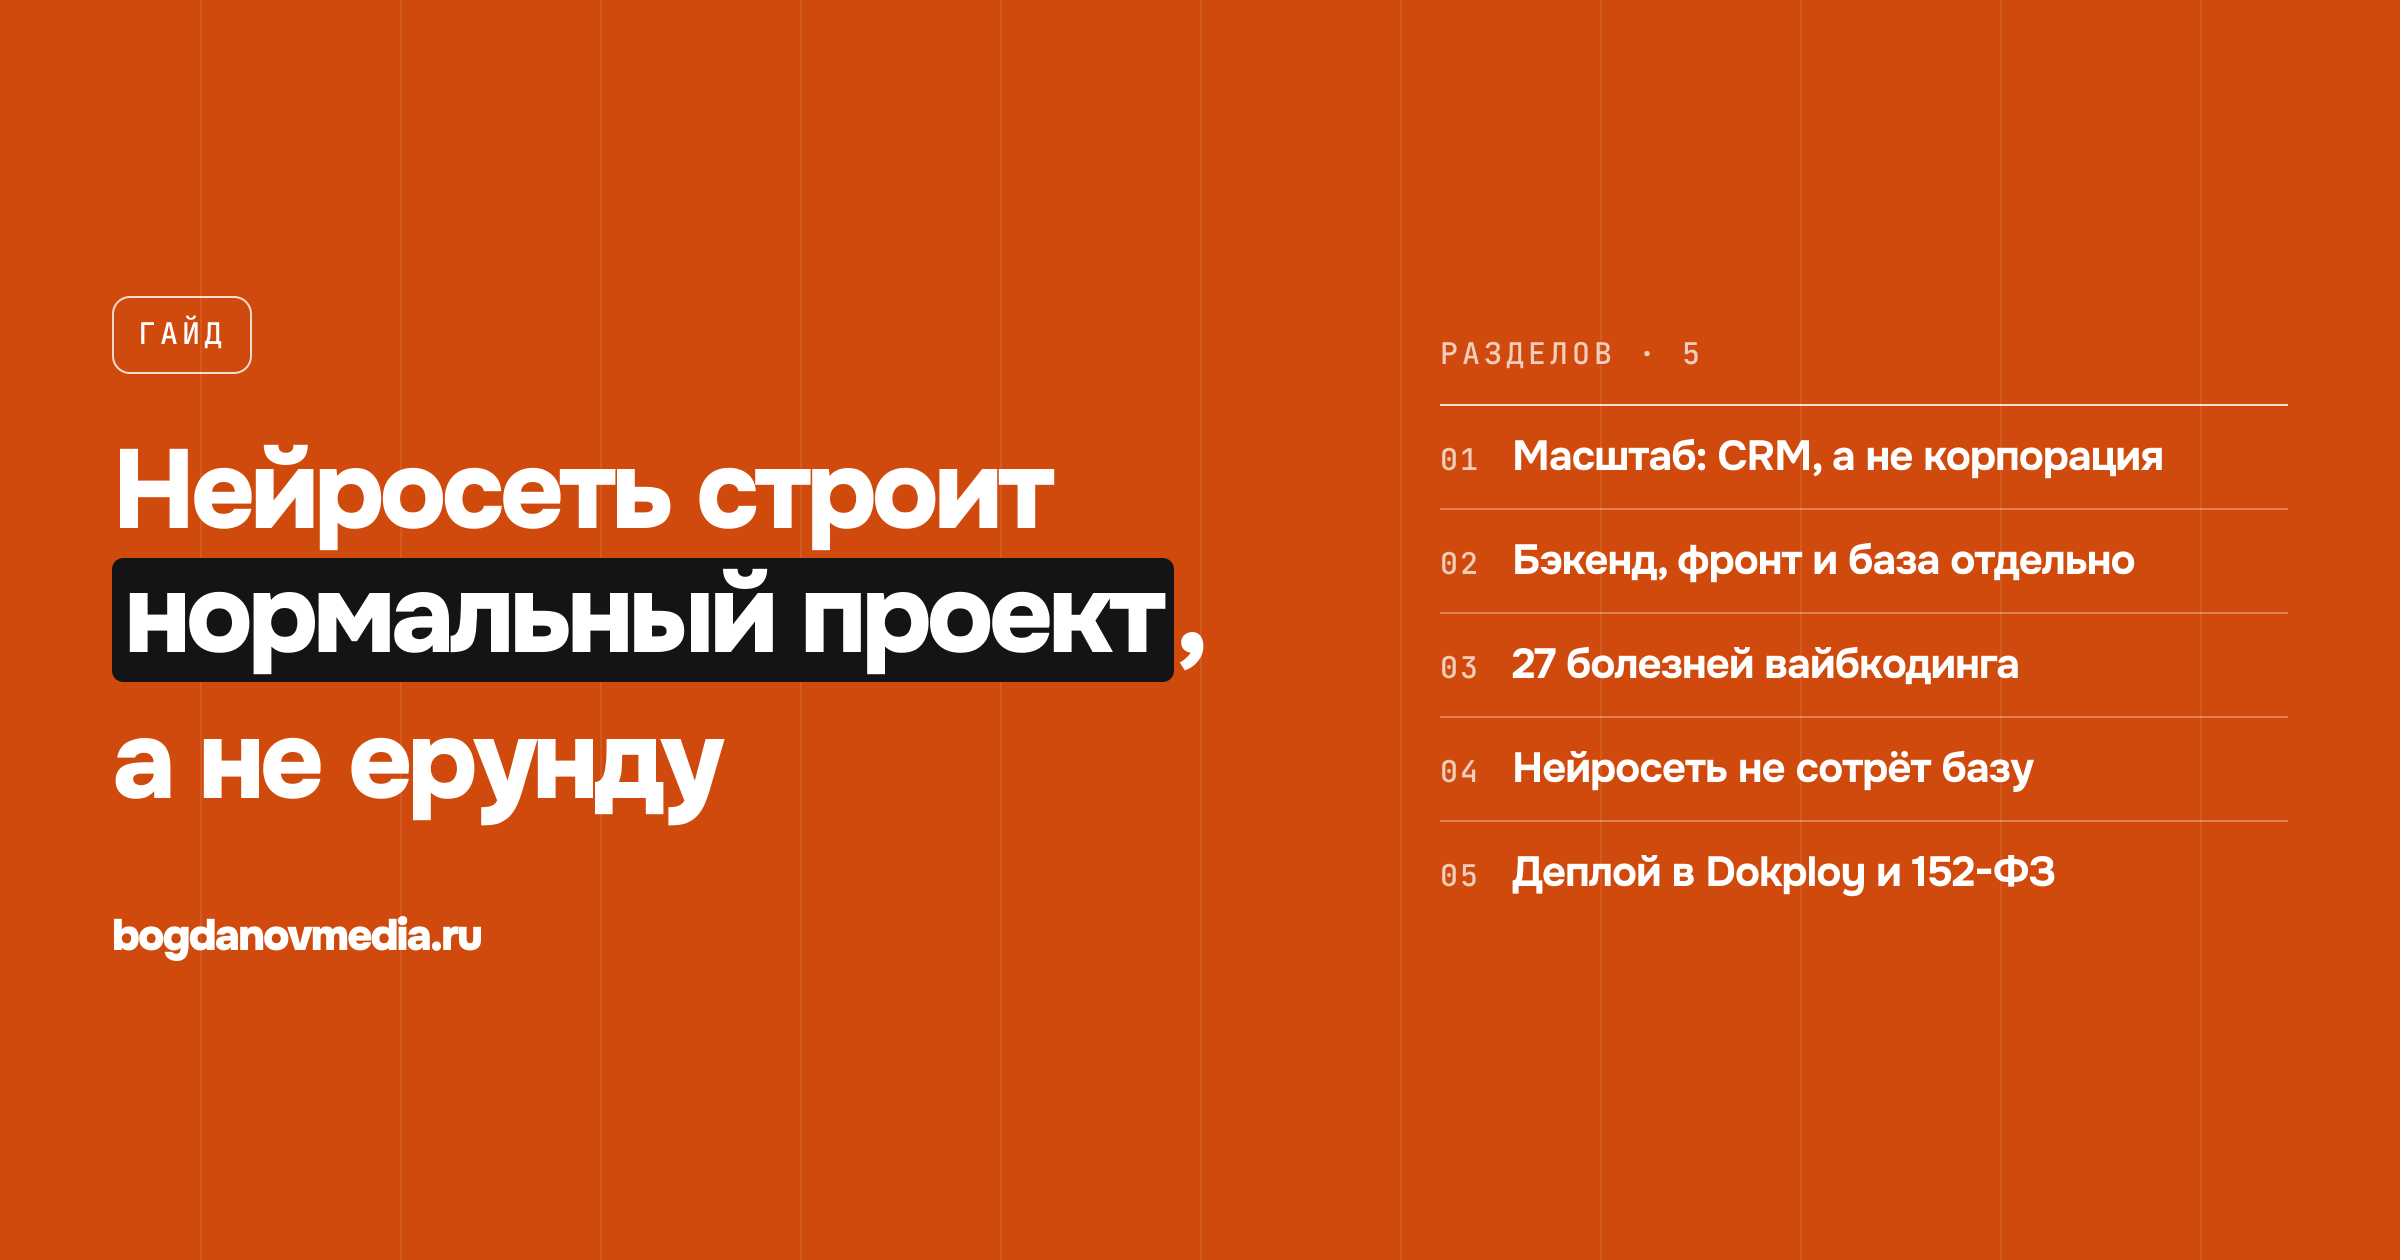
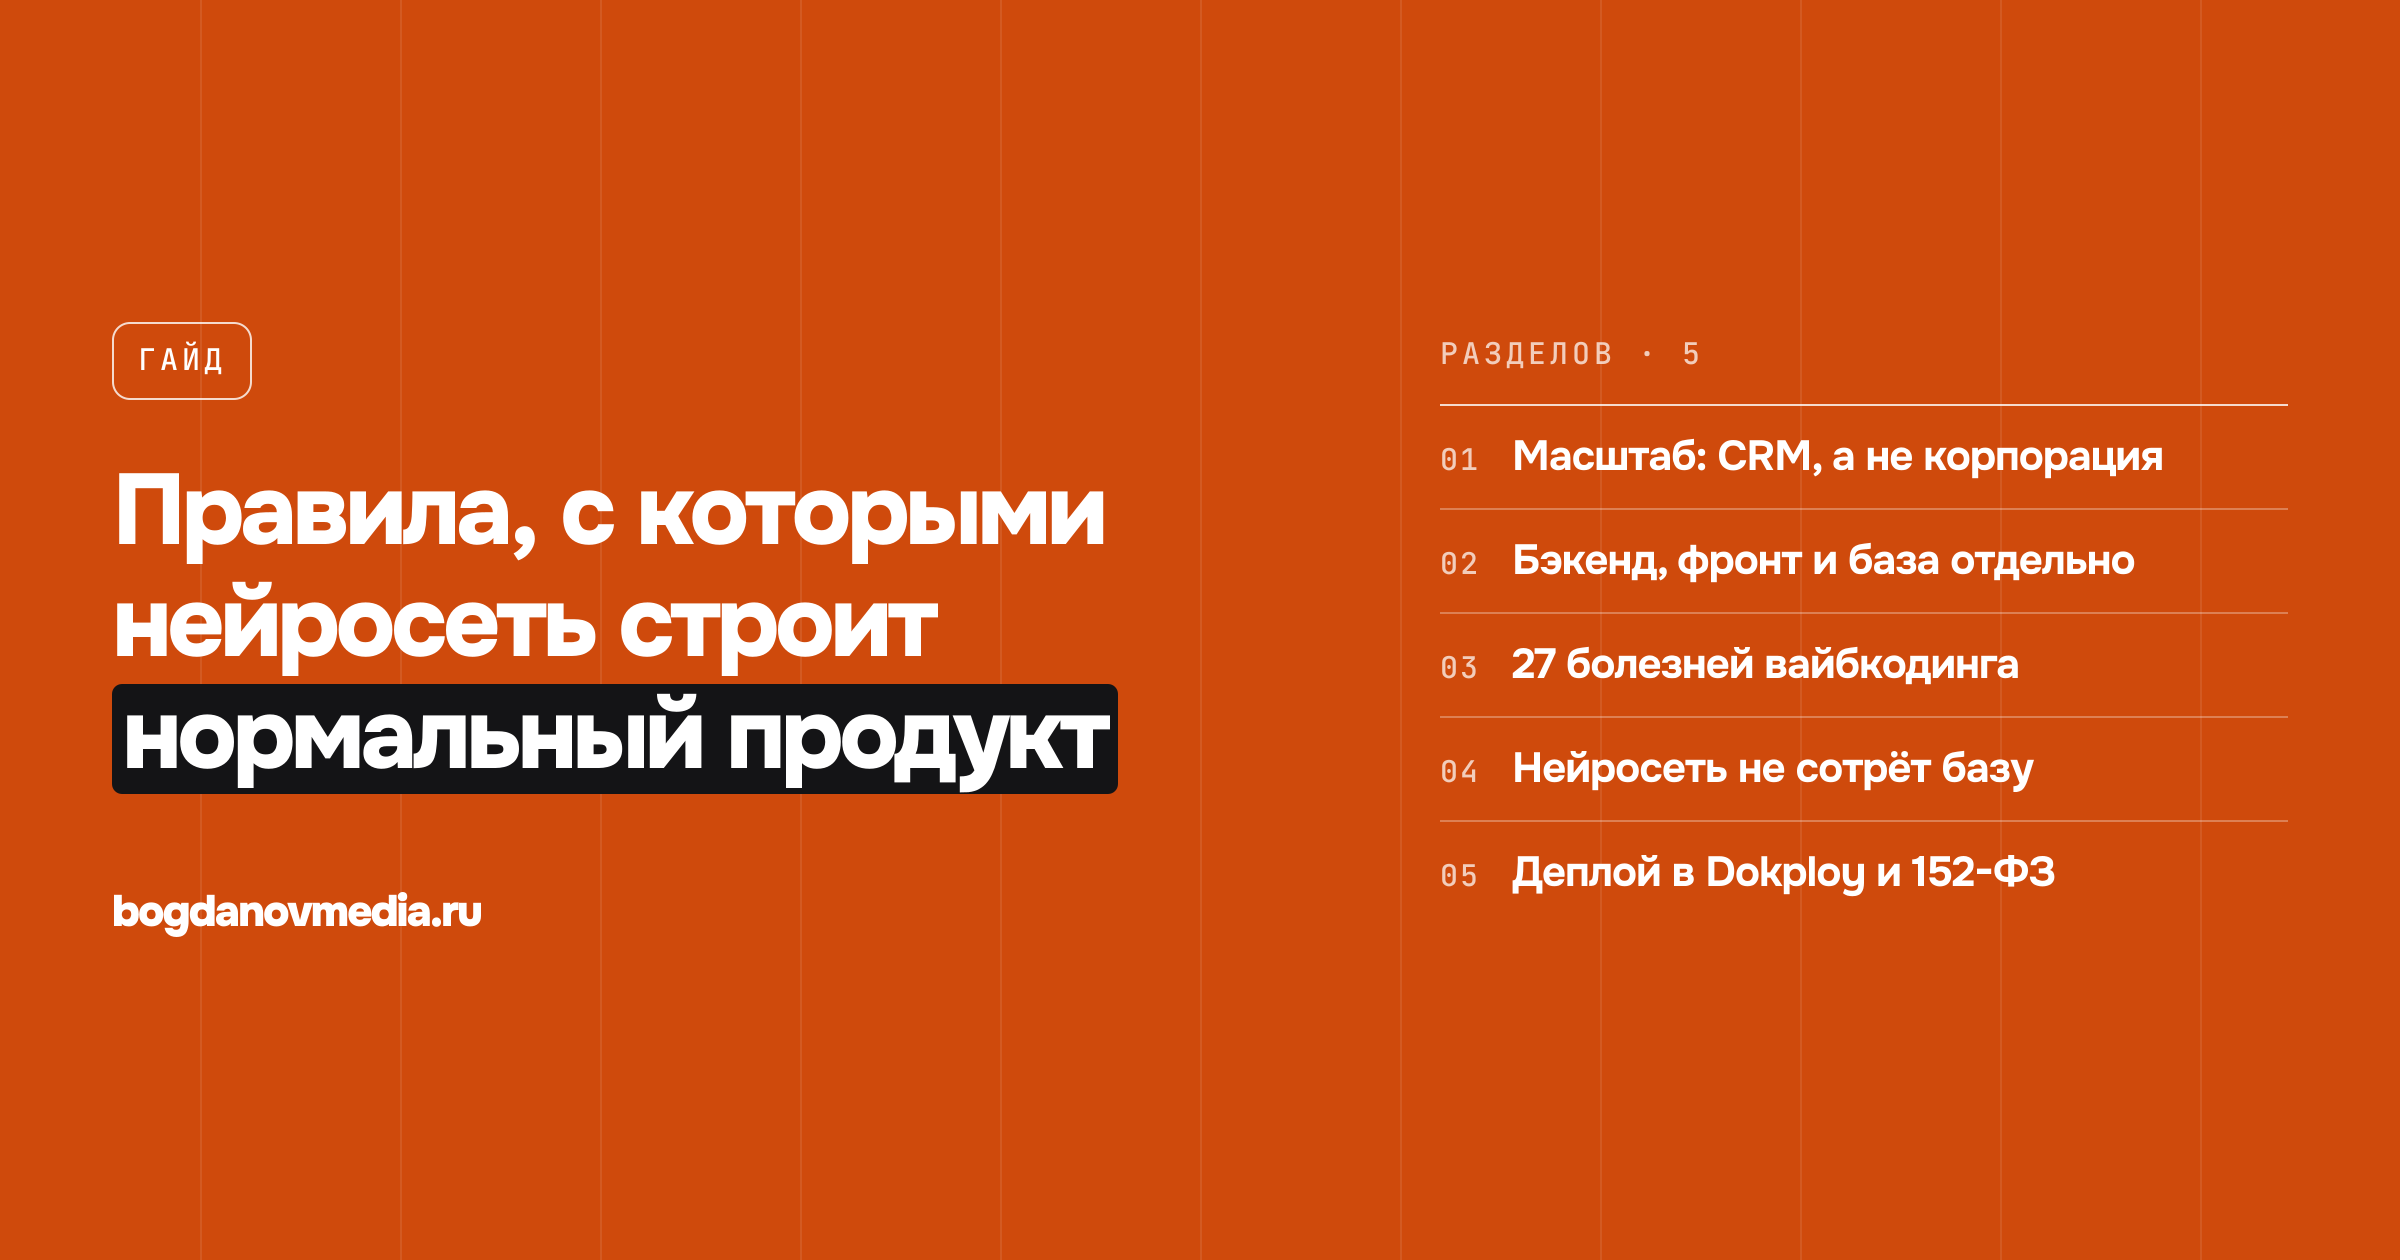
Заголовок: «Правила, с которыми нейросеть строит нормальный продукт»
Новый заголовок в README и на обложке.

Changed region(s): [[0.0312, 0.3405, 0.5, 0.65], [0.0312, 0.7119, 0.2188, 0.7738], [0.0625, 0.2476, 0.0938, 0.3095]]

diff --git a/README.md b/README.md
@@ -1,6 +1,6 @@
-# Правила для нейросети: чтобы она собирала нормальный проект, а не ерунду
+# Правила, с которыми нейросеть строит нормальный продукт
 
-![Нейросеть строит нормальный проект, а не ерунду: масштаб, бэкенд, фронт и база отдельно, 27 болезней вайбкодинга, защита базы, Dokploy и 152-ФЗ](assets/cover.png)
+![Правила, с которыми нейросеть строит нормальный продукт: масштаб, бэкенд, фронт и база отдельно, 27 болезней вайбкодинга, защита базы, Dokploy и 152-ФЗ](assets/cover.png)
 
 Для тех, кто делает продукт с Claude Code, Cursor или Codex и не считает себя программистом.
 
